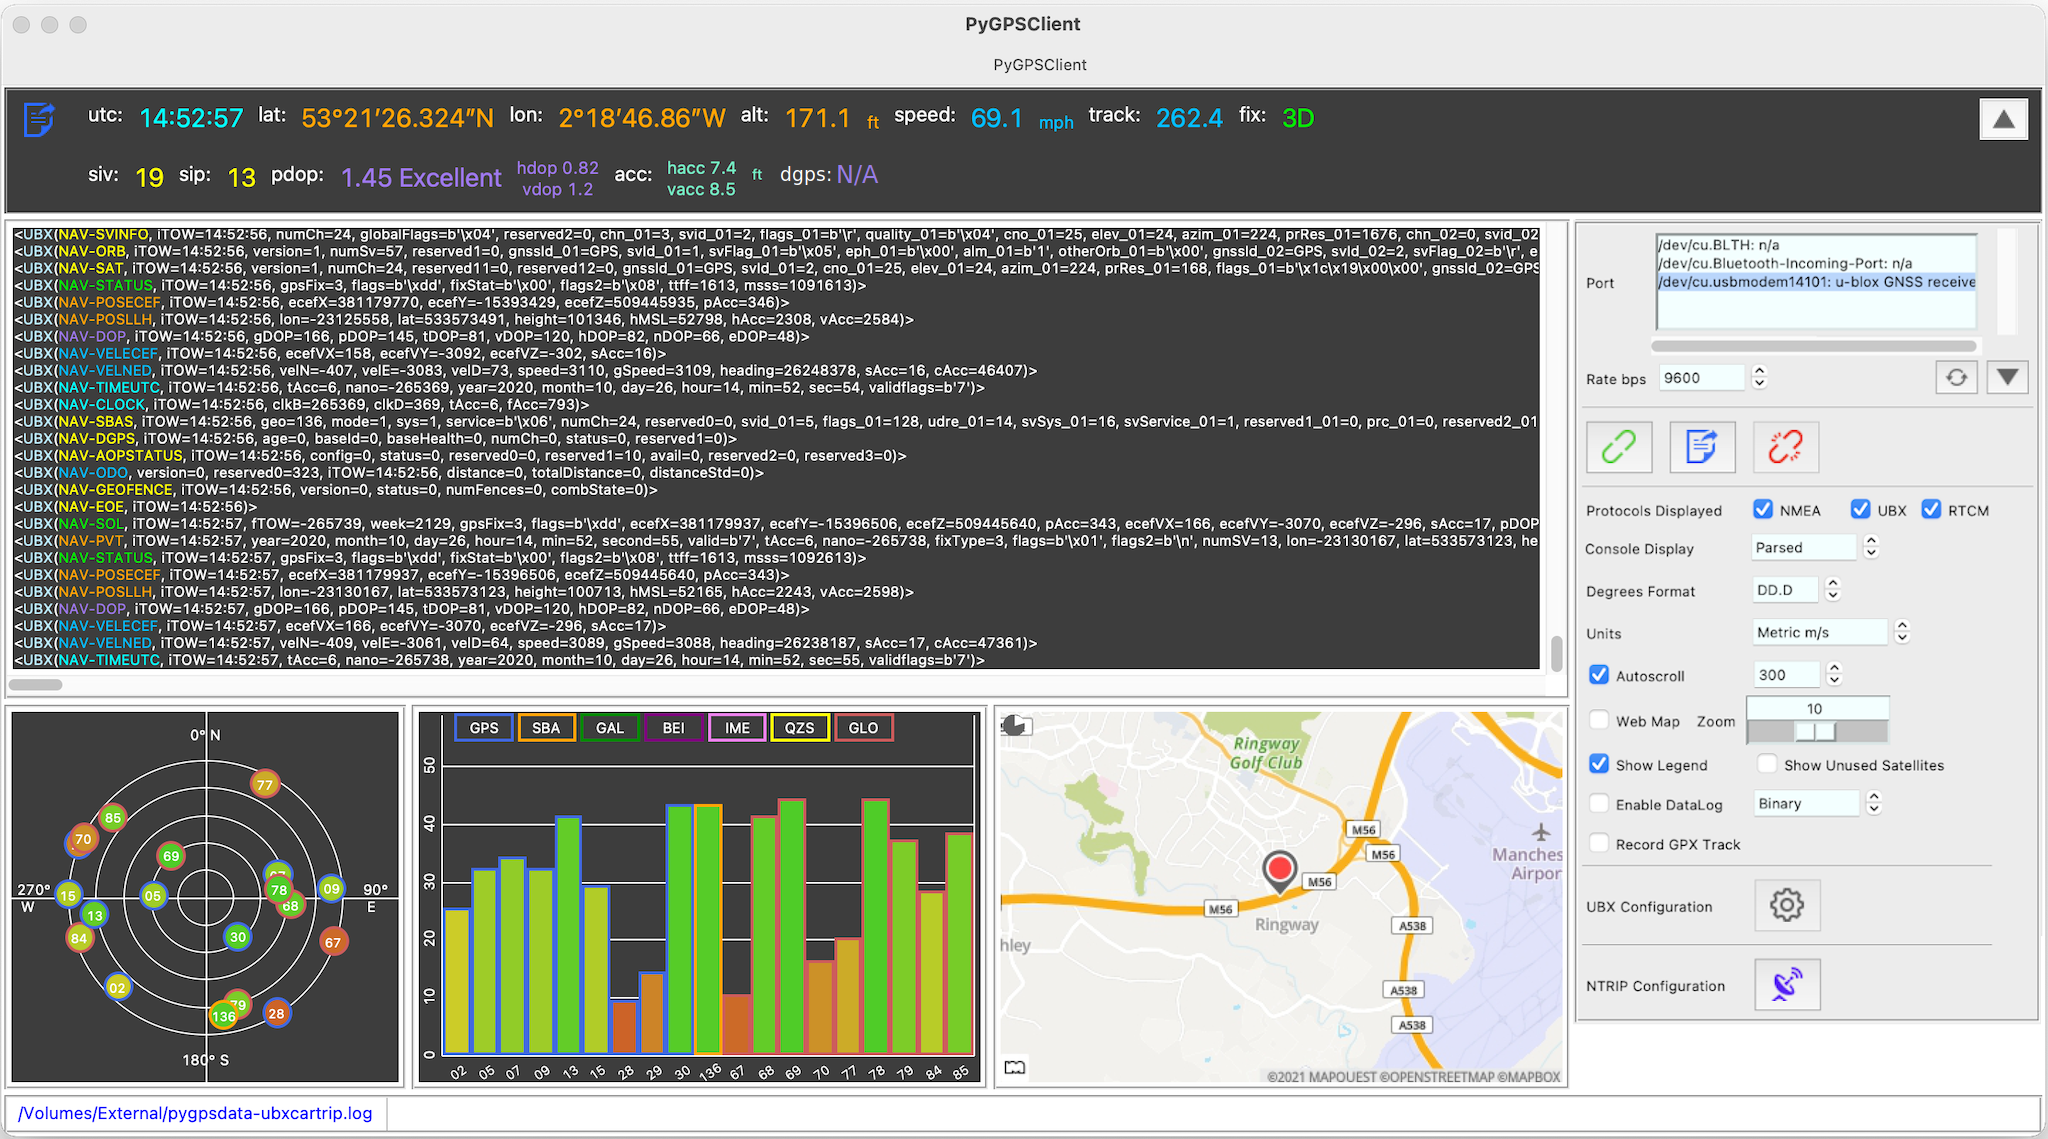
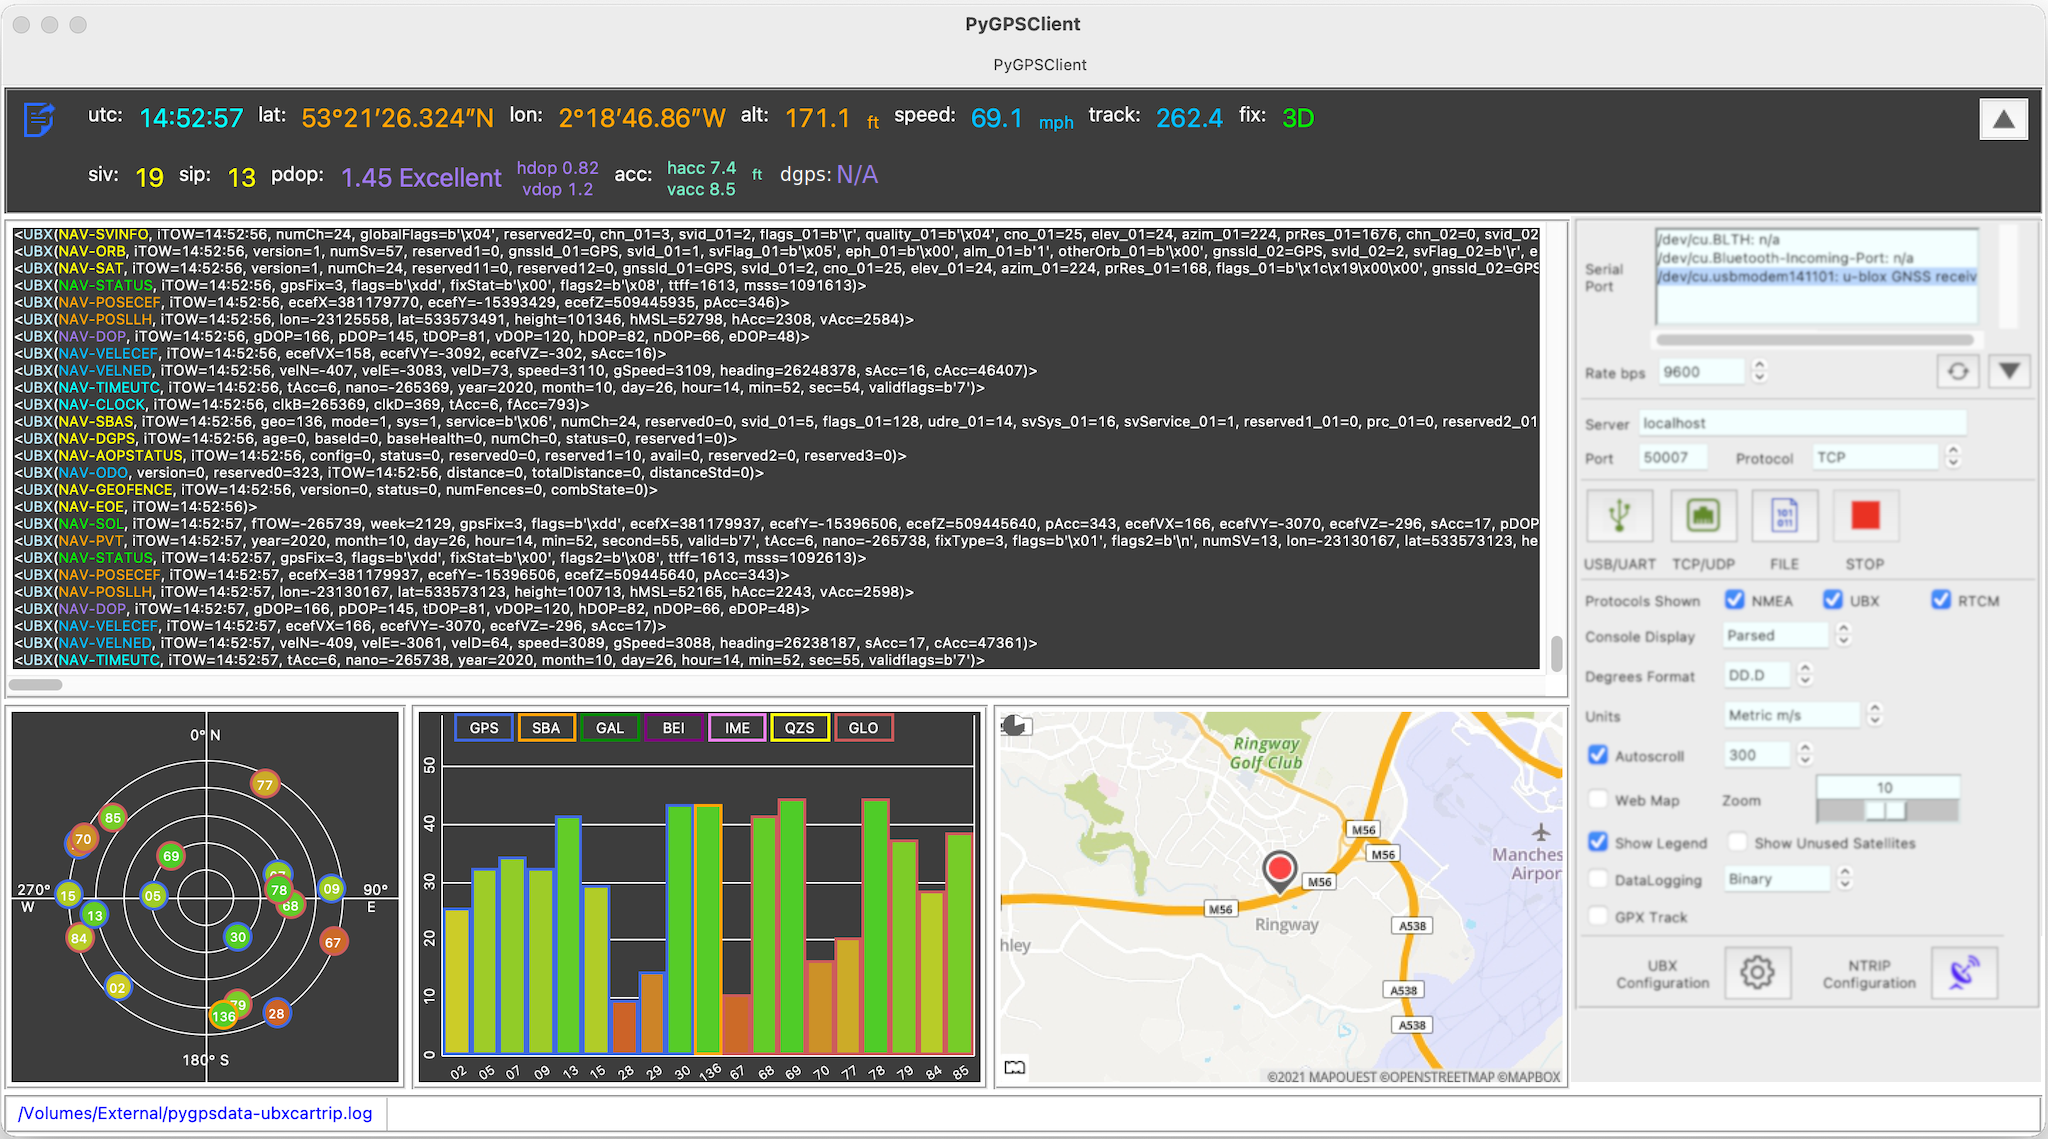
update readme and release notes

Changed region(s): [[0.75, 0.1844, 1.0, 0.8911]]

diff --git a/pygpsclient/_version.py b/pygpsclient/_version.py
@@ -8,4 +8,4 @@ Created on 12 Sep 2020
 :license: BSD 3-Clause
 """
 
-__version__ = "1.2.1"
+__version__ = "1.3.0"

diff --git a/README.md b/README.md
@@ -17,7 +17,7 @@ PyGPSClient is a multi-platform graphical GNSS/GPS testing, diagnostic and UBX &
 
 ![full app screenshot ubx](/images/all_widgets.png)
 
-The application runs on any platform which supports a Python interpreter (>=3.7) and tkinter (>=8.6) GUI framework, including Windows, MacOS, Linux and Raspberry Pi OS. It displays location and diagnostic data from any NMEA, UBX or RTCM3 compatible GNSS/GPS device over a standard serial (UART) or USB port, or from a previously-saved datalog file, *in addition to* providing a useful subset of the UBX configuration functionality in u-blox's Windows-only [u-center &copy;](https://www.u-blox.com/en/product/u-center) tool. Version 1.1.9 also introduces a simple NTRIP client.
+The application runs on any platform which supports a Python interpreter (>=3.7) and tkinter (>=8.6) GUI framework, including Windows, MacOS, Linux and Raspberry Pi OS. It displays location and diagnostic data from any NMEA, UBX or RTCM3 compatible GNSS/GPS device over a standard serial (UART) or USB port, or from a previously-saved datalog file, *in addition to* providing a useful subset of the UBX configuration functionality in u-blox's Windows-only [u-center &copy;](https://www.u-blox.com/en/product/u-center) tool.
 
 The application can be installed using the standard `pip` Python package manager - see [installation instructions](#installation) below.
 
@@ -43,8 +43,8 @@ Contributions welcome - please refer to [CONTRIBUTING.MD](https://github.com/sem
 ---
 ## <a name="features">Features</a>
 
-1. Supports NMEA, UBX and RTCM3 protocols. It uses the [pynmeagps library](https://pypi.org/project/pynmeagps/) for NMEA parsing, the [pyubx2 library](https://pypi.org/project/pyubx2/) for UBX parsing and the [pyrtcm library](https://pypi.org/project/pyrtcm/) for RTCM3 parsing.
-1. Capable of reading from serial/USB port or previously-saved binary datalog file. 
+1. Supports NMEA, UBX and RTCM3 protocols.
+1. Capable of reading from a variety of data streams: Serial (USB / UART), Socket (TCP / UDP) and binary datalog file. 
 1. Configurable GUI with selectable and resizeable widgets.
 1. Expandable banner widget showing key navigation information.
 1. Serial console widget showing data stream in either parsed, binary or hexadecimal format.
@@ -55,7 +55,7 @@ Contributions welcome - please refer to [CONTRIBUTING.MD](https://github.com/sem
 1. Data logging in parsed, binary, hexadecimal string and tabulated hexadecimal formats (NB. only binary datalogs can be re-read by `pygpsclient`'s parser).
 1. Track recording in GPX format.
 1. UBX Configuration Dialog, with the ability to send a variety of UBX configuration commands to u-blox GNSS devices. This includes the facility to add **user-defined commands or command sequences** - see instructions under [installation](#installation) below.
-1. **BETA FEATURE** [NTRIP](https://en.wikipedia.org/wiki/Networked_Transport_of_RTCM_via_Internet_Protocol) Client ([differential GPS enhancement](https://en.wikipedia.org/wiki/Differential_GPS)) facility with the ability to connect to a specified NTRIP server (caster), parse the incoming RTCM3 data and feed this data to a compatible GNSS device (*requires an Internet connection and access to a suitable NTRIP caster*).
+1. [NTRIP](https://en.wikipedia.org/wiki/Networked_Transport_of_RTCM_via_Internet_Protocol) Client ([differential GPS enhancement](https://en.wikipedia.org/wiki/Differential_GPS)) facility with the ability to connect to a specified NTRIP server (caster), parse the incoming RTCM3 data and feed this data to a compatible GNSS device (*requires an Internet connection and access to a suitable NTRIP caster*).
 
 ![compact view screenshot](/images/min_widgets.png)
 
@@ -63,11 +63,13 @@ Contributions welcome - please refer to [CONTRIBUTING.MD](https://github.com/sem
 ## <a name="howtouse">How to Use</a>
 
 * To connect to a listed serial device, select the device from the listbox, set the appropriate serial connection parameters and click 
-![connect icon](/pygpsclient/resources/iconmonstr-link-8-24.png). The application will endeavour to pre-select a recognised GNSS/GPS device but this is platform and device dependent. Press the ![refresh](/pygpsclient/resources/iconmonstr-refresh-6-16.png) button to refresh the list of connected devices at any point. *Rate bps is typically the only setting that might need adjusting, but tweaking the timeout setting may improve performance on certain platforms*.
-* To stream from a previously-saved binary datalog file (pygpsdata-*.log, or any binary dump of an NMEA or UBX GNSS device output), click 
-![connect-file icon](/pygpsclient/resources/iconmonstr-note-37-24.png) and select the file.
-* To disconnect from a serial device or datalog file, click
-![disconnect icon](/pygpsclient/resources/iconmonstr-link-10-24.png).
+![connect icon](/pygpsclient/resources/usbport-1-24.png). The application will endeavour to pre-select a recognised GNSS/GPS device but this is platform and device dependent. Press the ![refresh](/pygpsclient/resources/iconmonstr-refresh-6-16.png) button to refresh the list of connected devices at any point. *Rate bps is typically the only setting that might need adjusting, but tweaking the timeout setting may improve performance on certain platforms*.
+* **BETA FEATURE** To connect to a TCP or UDP socket, enter the server URL and port, select the protocol (defaults to TCP) and click 
+![connect socket icon](/pygpsclient/resources/ethernet-1-24.png).
+* To stream from a previously-saved binary datalog file, click 
+![connect-file icon](/pygpsclient/resources/binary-1-24.png) and select the file. PyGPSClient datalog files will be named e.g. `pygpsdata-20220427114802.log`, but any binary dump of an GNSS receiver output is acceptable.
+* To disconnect from the data stream, click
+![disconnect icon](/pygpsclient/resources/iconmonstr-media_control-50-24.png).
 * To display the UBX Configuration Dialog (*only available when connected to a UBX serial device*), click
 ![gear icon](/pygpsclient/resources/iconmonstr-gear-2-24.png), or go to Menu..Options.
 * To display the NTRIP Client Configuration Dialog (*requires internet connection*), click
@@ -119,7 +121,7 @@ To use:
 1. Enter the required NTRIP server URL (or IP address) and port (defaults to 2101). For services which require authorisation, enter your login username and password.
 1. To retrieve the sourcetable, leave the mountpoint field blank and click connect (*response may take a few seconds*). The required mountpoint may then be selected from the list, or entered manually.
 1. For NTRIP services which require client position data via NMEA GGA sentences, select the appropriate sentence transmission interval in seconds (*only available when a GNSS receiver is connected*). The default is 'None' (no GGA sentences sent). A value of 10 seconds is typical. **NB:** The GGA sentence will be generated based on the current position fix from the GNSS receiver.
-1. To connect to the NTRIP server, click ![connect icon](/pygpsclient/resources/iconmonstr-link-8-24.png). To disconnect, click ![disconnect icon](/pygpsclient/resources/iconmonstr-link-10-24.png).
+1. To connect to the NTRIP server, click ![connect icon](/pygpsclient/resources/iconmonstr-media-control-48-24.png). To disconnect, click ![disconnect icon](/pygpsclient/resources/iconmonstr-media-control-50-24.png).
 1. If NTRIP data is being successfully received, the banner '**dgps:**' status indicator should change to 'YES' and indicate the age and reference station of the correction data (where available) ![dgps status](/images/dgps_status.png). Note that DGPS status is typically maintained for up to 60 seconds after loss of correction signal.
 1. Some NTRIP services may output RTCM3 correction messages at a high rate, flooding the GUI console display. To suppress these messages in the console, de-select the 'RTCM' option in 'Protocols Displayed' - the RTCM3 messages will continue to be processed in the background.
 

diff --git a/RELEASE_NOTES.md b/RELEASE_NOTES.md
@@ -1,5 +1,12 @@
 # PyGPSClient Release Notes
 
+### RELEASE CANDIDATE v1.3.0
+
+ENHANCEMENTS:
+
+1. New BETA feature supports reading from TCP or UDP socket in addition to USB/UART and Binary File stream. At present, only open (i.e. unauthenticated, unencrypted) sockets are supported, but this may be enhanced in future versions.
+2. Datalogging enhanced to record incoming NTRIP data stream.
+
 ### RELEASE v.1.2.1
 
 CHANGES:
